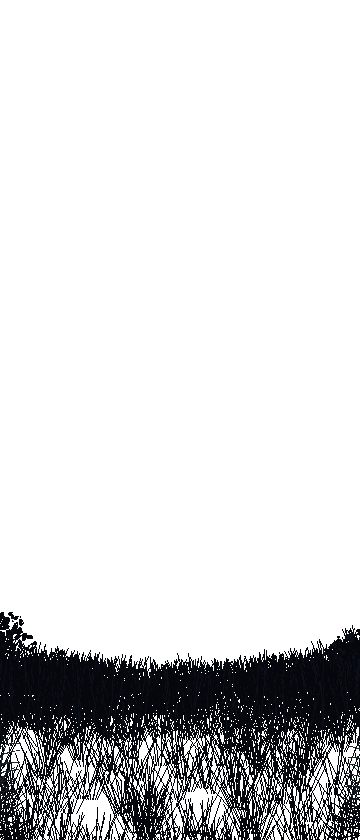
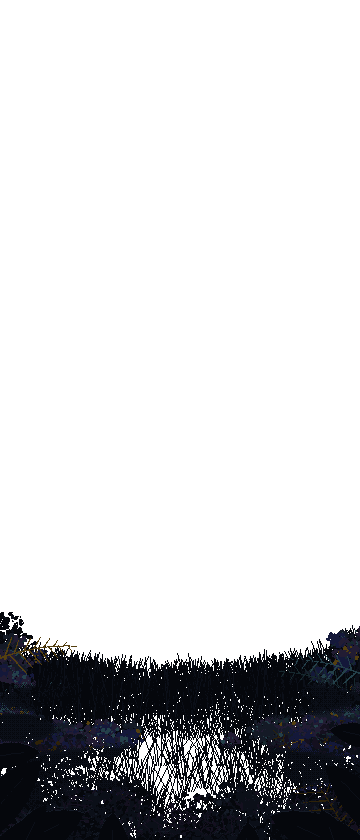
art: undergrowth closing in on the title clearing from below
The bottom of the tall title frame read on the phone as just darker. It is now
three depths of undergrowth on the fore layer: mid-ground bushes banked up
both sides, along the bottom edge and pressing in under the ring (rows
716-760, between the two places the prompt can sit); ferns among them; and
big near leaves in flat occlusion cut off by the frame in both bottom
corners and along the bottom edge, with a thread of light on their tops.

The undergrowth is toned by how much ward light reaches it rather than
darkened afterwards, so lit tops actually read. Soft dark pockets keep
PRESS ANY BUTTON (both PlacePrompt positions) and the version label on
stone.deep/occ only.

0 off-contract colours; layers composite to the flat PNG with 0 differing
pixels; app icon unchanged.

Changed region(s): [[0.0, 0.7429, 1.0, 1.0]]

diff --git a/tools/art/splash.py b/tools/art/splash.py
@@ -866,6 +866,173 @@ def _darken_rows(c, y0, y1, t_of, colors, only_opaque):
                     c.px[x, y] = want
 
 
+def _big_leaf(c, x, y, ang, length, width, color, rib, bend=0.0):
+    """One broad pointed leaf from its stalk end: a lens-shaped polygon along a gently curving
+    axis, with a midrib. The nearest plane of the undergrowth is made of these - shapes big
+    enough that their edge, not their texture, is what reads."""
+    left, right, axis = [], [], []
+    n = 14
+    for i in range(n + 1):
+        t = i / float(n)
+        a = ang + bend * t
+        cx = x + math.cos(ang) * length * t + math.cos(a) * 0.0
+        cy = y + math.sin(ang) * length * t
+        # the curve: push the axis sideways by a parabola, so a leaf droops rather than ruling
+        off = bend * length * 0.22 * t * t
+        cx += -math.sin(ang) * off
+        cy += math.cos(ang) * off
+        hw = width * 0.5 * math.sin(math.pi * min(1.0, t * 1.08)) ** 0.75
+        nx, ny = -math.sin(a), math.cos(a)
+        left.append((cx + nx * hw, cy + ny * hw))
+        right.append((cx - nx * hw, cy - ny * hw))
+        axis.append((cx, cy))
+    c.poly(left + list(reversed(right)), color)
+    if rib:
+        for i in range(1, int(n * 0.85)):
+            c.line(axis[i - 1][0], axis[i - 1][1], axis[i][0], axis[i][1], rib)
+
+
+def _type_pocket_t(x, y):
+    """Darkness the undergrowth must reach behind the type on this screen: PRESS ANY BUTTON at
+    both places TitleScreen.PlacePrompt can put it (rows 756-780 on a tall phone, 686-710 on
+    16:9), and the version label in the bottom-left corner on either. Soft-edged, so foliage
+    passing behind the letters goes dark gradually rather than being cut out round them."""
+    best = 0.0
+    for (cx, cy, rx, ry) in ((180, PROMPT_BOTTOM - PROMPT_H // 2, 168, 20),
+                             (180, 698, 168, 18),
+                             (22, 794, 40, 14), (16, 727, 34, 12)):
+        e = math.sqrt(((x - cx) / float(rx)) ** 2 + ((y - cy) / float(ry)) ** 2)
+        best = max(best, 3.3 * min(1.0, max(0.0, (1.7 - e) / 0.7)))
+    return best
+
+
+def _undergrowth(out):
+    """The wood closing in from below. Three depths, back to front, all on fore.
+
+    The first tall version had a handful of dim fronds in the bottom corners and a falloff to
+    black, and on the phone the bottom of the screen read as nothing but 'darker'. What makes
+    the clearing feel small is the wood pressing in from the foreground as well as from the
+    sides and above: mid-ground bushes banked up both sides and along the bottom, lit faintly
+    by the ward; ferns in among them (the fronds, which were the part that worked); and in front
+    of all of it a few big near leaves in flat occlusion, cut off by the frame edge, with only a
+    thread of light on their upper edges. The lit ground still shows between them near the ward.
+
+    The type sits in this band, so everything here is darkened by `_type_pocket_t`: foliage
+    frames PRESS ANY BUTTON and runs behind it, but only as the two darkest tones."""
+    WX, WY = WARD_C
+    rng = random.Random(907)
+
+    def ward_e(x, y):
+        return math.sqrt(((x - WX) / 205.0) ** 2 + ((y - WY) / 100.0) ** 2)
+
+    # How much ward light reaches a thing standing at (x, y): 1 at the ring, 0 well out in the
+    # dark. The undergrowth is TONED by this rather than darkened by a falloff afterwards. The
+    # first pass drew it all in near-blacks and then ran a falloff over it, and on the phone it
+    # came out as more of the same dark - a bush only reads as a bush if its lit side is
+    # actually lighter than the ground it stands on.
+    def lit(x, y):
+        return 1.0 - min(1.0, max(0.0, (ward_e(x, y) - 0.85) / 1.25))
+
+    TIERS = [
+        # (darks, lights) far out in the dark ... up close to the ring
+        ([OCC, M["stone"][4]], [M["stone"][3], M["violet"][4]]),
+        ([M["stone"][4], M["violet"][4], M["wool"][4]],
+         [M["lichen"][4], M["gold"][4], M["violet"][3], M["stone"][3]]),
+        ([M["stone"][3], M["violet"][3], M["wool"][4]],
+         [M["lichen"][3], M["gold"][3], M["lichen"][4]]),
+    ]
+
+    def tier(x, y):
+        return TIERS[min(2, int(lit(x, y) * 3.0))]
+
+    # Only two things darken the undergrowth after it is drawn: the type pockets, and the
+    # bottom edge taking it to occlusion so a phone taller than 21:9 still meets the ground.
+    def shade(x, y):
+        return max(_type_pocket_t(x, y), 3.3 * max(0.0, (y - 812) / 28.0))
+
+    # --- mid-ground bushes ------------------------------------------------------------------
+    mid = raster.Canvas(W, TALL_H)
+    clumps = []
+    for _ in range(170):                       # banked up both sides
+        side = -1 if rng.random() < 0.5 else 1
+        u = rng.random()
+        y = 630 + int(u ** 0.8 * 220)
+        # the further down, the further in toward the middle the bank reaches
+        reach = 24 + u * 150
+        x = 180 + side * (180 - int(rng.random() ** 1.6 * reach)) + rng.randrange(-14, 15)
+        clumps.append((x, y, 8 + u * 20))
+    # Pressing in under the ring from both sides, in the band between the two places the prompt
+    # can sit (below 710, where it goes on 16:9; above 756, where it goes on a tall phone), and
+    # thinning toward the middle so the ground the ward lights still shows through the gap.
+    for _ in range(90):
+        side = -1 if rng.random() < 0.5 else 1
+        x = 180 + side * int(46 + rng.random() ** 0.7 * 150)
+        clumps.append((x, 724 + rng.randrange(0, 26), 7 + rng.random() * 9))
+    for _ in range(80):                        # and a low bank right along the bottom
+        clumps.append((rng.randrange(-10, W + 10), 800 + rng.randrange(0, 50),
+                       14 + rng.random() * 14))
+    for (x, y, r) in sorted(clumps, key=lambda q: q[1]):
+        darks, lights = tier(x, y - r * 0.5)
+        sk.brush(mid, x, y, r, r * 0.72, seed=rng.randrange(9999),
+                 dark=darks[rng.randrange(len(darks))], light=lights[rng.randrange(len(lights))],
+                 density=1.6)
+    # --- ferns among them (the fronds were the part of the first tall version that worked) ---
+    def frond_tone(x, y, k):
+        lights = tier(x, y)[1]
+        return lights[k % len(lights)]
+
+    base = TALL_H + 14
+    for (fx, fa, fl, fb, fs) in [
+            # Not mirrored: a symmetrical pair reads as a frame put round the picture.
+            (-18, -1.36, 150, -0.30, 805), (378, -1.78, 140, 0.34, 815),
+            (8, -1.18, 160, 0.40, 803), (356, -1.98, 150, -0.36, 813),
+            (-34, -0.92, 150, 0.50, 801), (396, -2.24, 132, -0.48, 811),
+            (44, -1.30, 120, 0.70, 807), (320, -1.86, 116, -0.80, 817),
+            (96, -0.70, 96, 0.40, 821), (262, -2.46, 90, -0.40, 823),
+            (150, -1.10, 70, 0.50, 825), (214, -2.00, 64, -0.60, 827)]:
+        tx = fx + math.cos(fa) * fl * 0.6
+        ty = base + math.sin(fa) * fl * 0.6
+        _frond(mid, fx, base, fa, fl, fb, fs, frond_tone(tx, ty, fs))
+    # and four from the sides higher up: the wood leaning in over the edge of the clearing
+    for (fx, fy, fa, fl, fb, fs) in [(-8, 716, -0.62, 92, 0.55, 831), (368, 704, -2.48, 96, -0.60, 833),
+                                     (-6, 660, -0.40, 84, 0.45, 835), (366, 676, -2.70, 80, -0.45, 837)]:
+        _frond(mid, fx, fy, fa, fl, fb, fs, frond_tone(fx + math.cos(fa) * fl * 0.6,
+                                                       fy + math.sin(fa) * fl * 0.6, fs))
+    _darken_rows(mid, 0, TALL_H - 1, shade, [None, None, M["stone"][4], OCC], only_opaque=True)
+    _over(out["fore"], mid)
+
+    # --- near foreground: big leaves in occlusion, cut by the frame -------------------------
+    fg = raster.Canvas(W, TALL_H)
+    rib = M["stone"][4]
+    leaves = [
+        # bottom-left corner, a fan rooted off-frame
+        (-22, 872, -0.58, 130, 44, 0.30), (-30, 846, -0.98, 120, 38, 0.45),
+        (-14, 884, -0.26, 120, 38, 0.10), (8, 886, -1.26, 96, 30, 0.55),
+        (-26, 760, -0.20, 70, 26, 0.35),
+        # bottom-right corner, not a mirror
+        (384, 870, -2.62, 136, 46, -0.35), (392, 842, -2.18, 110, 34, -0.50),
+        (372, 886, -2.94, 118, 36, -0.15), (350, 888, -1.84, 90, 28, -0.40),
+        (388, 742, -2.86, 64, 24, -0.30),
+        # low across the bottom edge, under the prompt
+        (118, 890, -1.72, 84, 32, 0.40), (240, 894, -1.38, 78, 30, -0.45),
+        (176, 900, -1.60, 66, 28, 0.20), (70, 896, -1.30, 70, 26, 0.30),
+        (296, 898, -1.90, 70, 26, -0.30)]
+    for (x, y, a, ln, wd, bd) in leaves:
+        _big_leaf(fg, x, y, a, ln, wd, OCC, rib, bend=bd)
+    # A thread of light on their upper edges and nothing else: the nearest plane gets the
+    # least light in the frame, which is what puts it in front of the lit bushes behind it.
+    hits = []
+    for y in range(1, fg.h):
+        for x in range(fg.w):
+            if fg.px[x, y][3] and not fg.px[x, y - 1][3] and rng.random() < 0.85:
+                hits.append((x, y))
+    for (x, y) in hits:
+        fg.px[x, y] = raster.rgb(M["violet"][3] if lit(x, y) > 0.3 and rng.random() < 0.5
+                                 else M["stone"][3])
+    _darken_rows(fg, 0, TALL_H - 1, shade, [None, None, M["stone"][4], OCC], only_opaque=True)
+    _over(out["fore"], fg)
+
+
 def _tall_frame(cv, layers):
     names = STAGES if layers else ("backA",)
     out = {}
@@ -910,43 +1077,7 @@ def _tall_frame(cv, layers):
     _darken(leaf, _vignette_t, [None, None, M["stone"][4], OCC])
     _over(out["backB"], leaf)
 
-    # --- BELOW: the nearest plane of all ------------------------------------------------------
-    # The old bottom 80 rows are pure occlusion on purpose - that is the band the prompt and the
-    # Options row sit in - so there is no lit ground to continue, and nothing dark drawn down
-    # here would be seen against it. What is under the camera is the wood itself: fern rooted
-    # below the frame, banked up the two corners and low across the middle so the prompt keeps
-    # its clear ground, catching only the faintest edge of the light from the clearing. It frames
-    # the bottom of the screen the way the canopy frames the top.
-    #
-    # Back to front, darkest first. Only the inner fronds - the ones angled toward the ward -
-    # take the faint gold; the rest are the cold near-blacks the wood is made of.
-    near = raster.Canvas(W, TALL_H)
-    base = TALL_H + 14
-    for (fx, fa, fl, fb, fs, tone) in [
-            # Not mirrored. A symmetrical pair of clumps reads as a frame someone put round the
-            # picture, which is the letterbox again in another form.
-            # Up the two edges and low along the bottom, and nowhere above row ~792 between
-            # x 34 and 326: that is where PRESS ANY BUTTON sits on a tall phone, and the ground
-            # behind it has to be the dark, quiet falloff and nothing else.
-            (-18, -1.42, 140, -0.30, 805, M["violet"][4]), (378, -1.74, 136, 0.32, 815, M["violet"][4]),
-            (6, -1.52, 128, -0.42, 803, M["stone"][3]), (352, -1.62, 120, 0.45, 813, M["stone"][3]),
-            (-30, -1.20, 150, -0.15, 801, M["lichen"][4]), (392, -1.95, 146, 0.20, 811, M["lichen"][4]),
-            (20, -1.60, 96, -0.55, 807, M["gold"][4]), (338, -1.55, 92, 0.60, 817, M["gold"][4]),
-            (112, -0.55, 70, 0.30, 821, M["stone"][3]), (252, -2.62, 66, -0.30, 823, M["stone"][3]),
-            (182, -1.20, 40, 0.50, 819, M["lichen"][4])]:
-        _frond(near, fx, base, fa, fl, fb, fs, tone)
-    # Keep the foliage off the rows the Options button, the preset readout and the prompt sit
-    # on (old 575-620). The fronds are sized to top out round the seam; this only thins any
-    # tip that overshoots, by dither, so nothing ends on a ruled line.
-    _taper(near, TOP + H - 14, TOP + H + 4, keep_above=False)
-
-    # Brightest at the tips, nearest the light, and gone to occlusion at the frame edge.
-    def fade(x, y):
-        u = (y - (TOP + H)) / float(BOTTOM)
-        return 1.0 + 3.3 * max(0.0, u) ** 1.1
-
-    _darken(near, fade, [None, None, M["stone"][4], OCC])
-    _over(out["fore"], near)
+    _undergrowth(out)
     return out
 
 # ---------------------------------------------------------- 2. BONELIGHT MOON

diff --git a/.ai/title-screen.md b/.ai/title-screen.md
@@ -79,11 +79,31 @@ screen. Scaling up is forbidden, so the fix was **more picture**. `splash.py` st
   bottom of the screen (below), and `_falloff_t` holds a soft-edged dark pocket centred on its
   lowest position, so on a tall phone what is behind the letters is only `occ` and `stone.deep`
   (measured: max luminance 14.8, the value of `stone.deep`, across the whole strip).
-- **Fern fronds** rooted below the frame, up the two side edges and low along the bottom - never
-  above row ~792 between x 34 and 326, which is where the prompt goes - drawn *lit* in the four dimmest tones (`violet.deep`, `stone.shade`, `lichen.deep`,
-  `gold.deep`), go over that ground. Drawn as occlusion silhouettes with an edge light they were
-  invisible, and the edge pass came out as a uniform speckle - see `_frond()`. Not mirrored: a
-  symmetrical pair reads as a frame.
+- **The undergrowth closes in from below** (`_undergrowth()`, all on `fore`). A falloff alone
+  read on the phone as "just darker": what makes the clearing small is the wood pressing in from
+  the foreground too. Three depths, back to front:
+  - **Mid-ground bushes** banked up both sides (reaching further in the lower they stand), a
+    low bank along the bottom edge, and a band pressing in under the ring from both sides,
+    thinning toward the middle so the ground the ward lights still shows through the gap. That
+    band sits on rows 716-760, *between* the two places the prompt can go.
+  - **Ferns** among them - the fronds from the first tall version, which were the part that
+    worked - from the bottom and leaning in from the sides.
+  - **Big near leaves** in flat `occ`, cut off by the frame in both bottom corners and low along
+    the bottom edge, with only a thread of `stone.shade`/`violet.shade` on their upper edges. The
+    nearest plane gets the least light; that is what puts it in front.
+- **The undergrowth is TONED, not darkened afterwards.** `lit()` measures how much ward light
+  reaches a spot and picks one of three tone tiers for each bush and frond: near-blacks out in
+  the dark, `lichen.shade`/`gold.shade` tops close to the ring. The first pass drew everything in
+  near-blacks and then ran a falloff over it, and it came out as more of the same dark - a bush
+  only reads as a bush if its lit side is lighter than the ground it stands on. After that only
+  two things darken it: the frame bottom (rows 812+, to `occ`) and `_type_pocket_t`.
+- **`_type_pocket_t` is the type's clearance**: soft-edged dark pockets behind PRESS ANY BUTTON
+  at both places `TitleScreen.PlacePrompt` can put it (rows 756-780 tall, 686-710 on 16:9) and
+  behind the version label in the bottom-left corner on either. Foliage runs behind the letters,
+  but only as `stone.deep` and `occ`. Move the prompt and these have to move with it.
+- `_frond()` draws fronds *lit*, in one tone. Drawn as occlusion silhouettes with an edge light
+  they were invisible, and the edge pass came out as a uniform speckle. Nothing at the bottom is
+  mirrored: a symmetrical pair reads as a frame put round the picture.
 - **Both bands fade to pure `occ` at the frame edge**, so a phone taller than 21:9 still meets the
   `Ground` colour invisibly. The top band is darkened by the Vigil vignette's own function carried
   past the end of the frame (`_vignette_t`), so new pixels at the seam get exactly the darkness of
